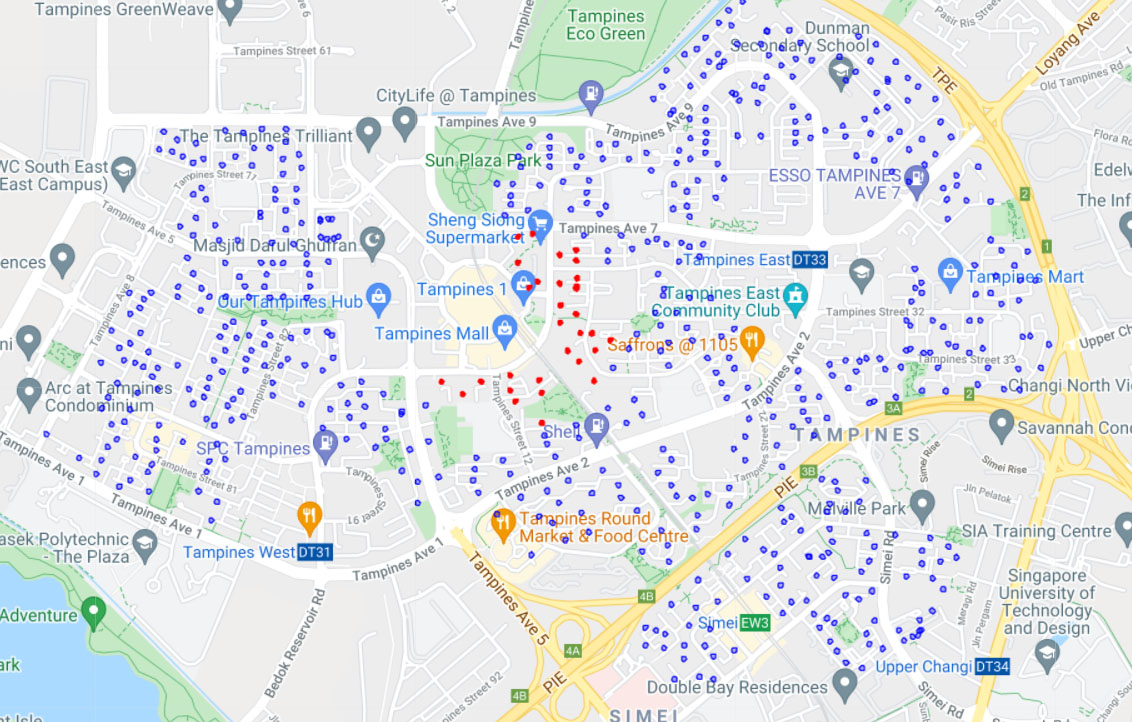
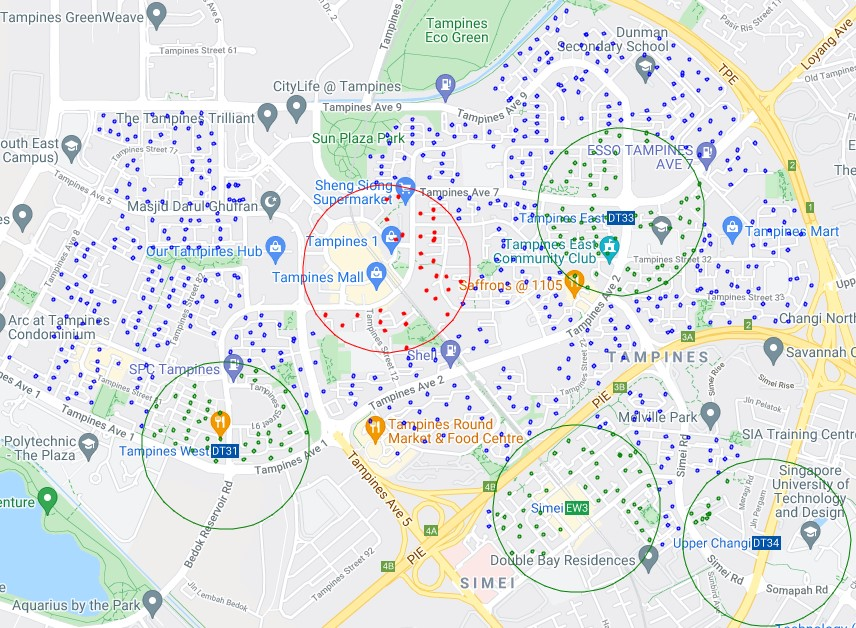
Update readme.md and visualisation.jpg

diff --git a/readme.md b/readme.md
@@ -19,6 +19,9 @@ In resale2013_2018.xlsx,
 6. **tampines_mrt** - 1 denotes less than 400m from Tampines MRT and 0 denotes more than 400m from Tampines MRT
 7. **east_mrt** - 1 denotes less than 400m from Tampines East MRT and 0 denotes more than 400m from Tampines East MRT
 8. **west_mrt** - 1 denotes less than 400m from Tampines West MRT and 0 denotes more than 400m from Tampines West MRT
+9. **simei_mrt** - 1 denotes less than 400m from Simei MRT and 0 denotes more than 400m from Simei MRT
+10. **upper_changi_mrt** - 1 denotes less than 400m from Upper Changi MRT and 0 denotes more than 400m from Upper Changi MRT
+
 
 # HDB Location Visualisation
 
@@ -30,7 +33,8 @@ Uses gmplot to plot the location of HDBs in Tampines
 
 ## Legend
 1. Red - Within 400m of Tampines MRT
-2. Blue - Further than 400m of Tampines MRT and within 400m of Tampines East MRT or Tampines West MRT
+2. Green - Within 400m of a MRT station that is not Tampines
+3. Blue - Not within 400m of any MRT station
 
 To use,
 1. Create virtualenv 
@@ -38,6 +42,6 @@ To use,
 3. Obtain Google Maps API Key and save it as API_KEY.txt
 4. Enable Google Geolocation API and Maps Javascript API
 
-**Note**: Do not upload the created visualisation.html file publicly as it contains the API Key information   
+⚠ **Note**: Do not upload the created visualisation.html file publicly as it contains the API Key information   
 
 For the EC4352 Singapore Economy: Practice and Policy module
